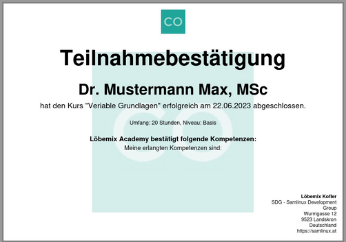
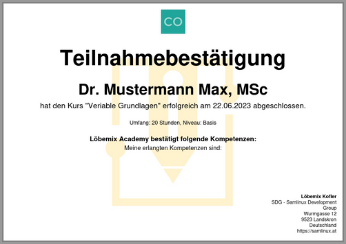
22973

diff --git a/templates/de_k_4.html b/templates/de_k_4.html
@@ -147,7 +147,7 @@
       <div>{{TPL_ORG_ReferenzLink}}</div>
     </div>
 
-    <div class="backgroundImageContainer">{{{TPL_ORG_Logo}}}</div>
+    <div class="backgroundImageContainer">{{{TPL_IMAGE_6}}}</div>
   </div>
 
 </body>

diff --git a/templates/de_z_4.html b/templates/de_z_4.html
@@ -163,7 +163,7 @@
       <div>{{TPL_ORG_ReferenzLink}}</div>
     </div>
 
-    <div class="backgroundImageContainer">{{{TPL_ORG_Logo}}}</div>
+    <div class="backgroundImageContainer">{{{TPL_IMAGE_6}}}</div>
   </div>
 
 </body>

diff --git a/templates/en_k_4.html b/templates/en_k_4.html
@@ -147,7 +147,7 @@
       <div>{{TPL_ORG_ReferenzLink}}</div>
     </div>
 
-    <div class="backgroundImageContainer">{{{TPL_ORG_Logo}}}</div>
+    <div class="backgroundImageContainer">{{{TPL_IMAGE_6}}}</div>
   </div>
 
 </body>

diff --git a/templates/en_z_4.html b/templates/en_z_4.html
@@ -163,7 +163,7 @@
       <div>{{TPL_ORG_ReferenzLink}}</div>
     </div>
 
-    <div class="backgroundImageContainer">{{{TPL_ORG_Logo}}}</div>
+    <div class="backgroundImageContainer">{{{TPL_IMAGE_6}}}</div>
   </div>
 
 </body>
